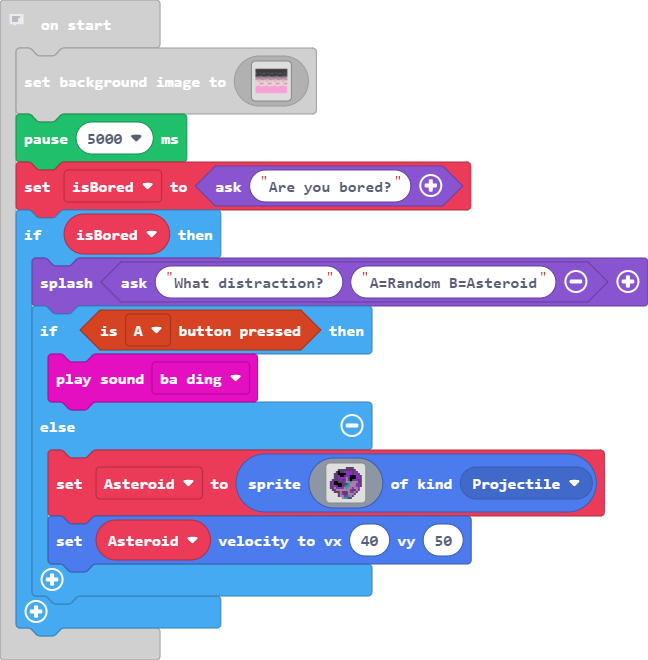
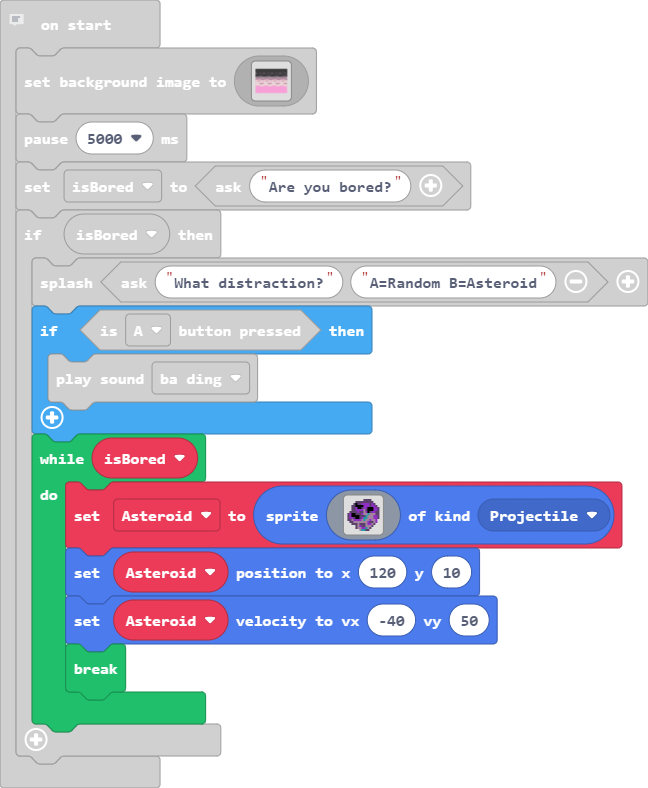
asteroid moving

diff --git a/main.ts b/main.ts
@@ -128,7 +128,8 @@ if (isBored) {
     game.splash(game.ask("What distraction?", "A=Random B=Asteroid"))
     if (controller.A.isPressed()) {
         music.baDing.play()
-    } else {
+    }
+    while (isBored) {
         Asteroid = sprites.create(img`
             . . . . . . . . c c c c . . . . 
             . . . . c c c c c c c c c . . . 
@@ -147,6 +148,8 @@ if (isBored) {
             . . . . c b b a a 6 b c . . . . 
             . . . . . . b 6 6 c c . . . . . 
             `, SpriteKind.Projectile)
-        Asteroid.setVelocity(40, 50)
+        Asteroid.setPosition(120, 10)
+        Asteroid.setVelocity(-40, 50)
+        break;
     }
 }
